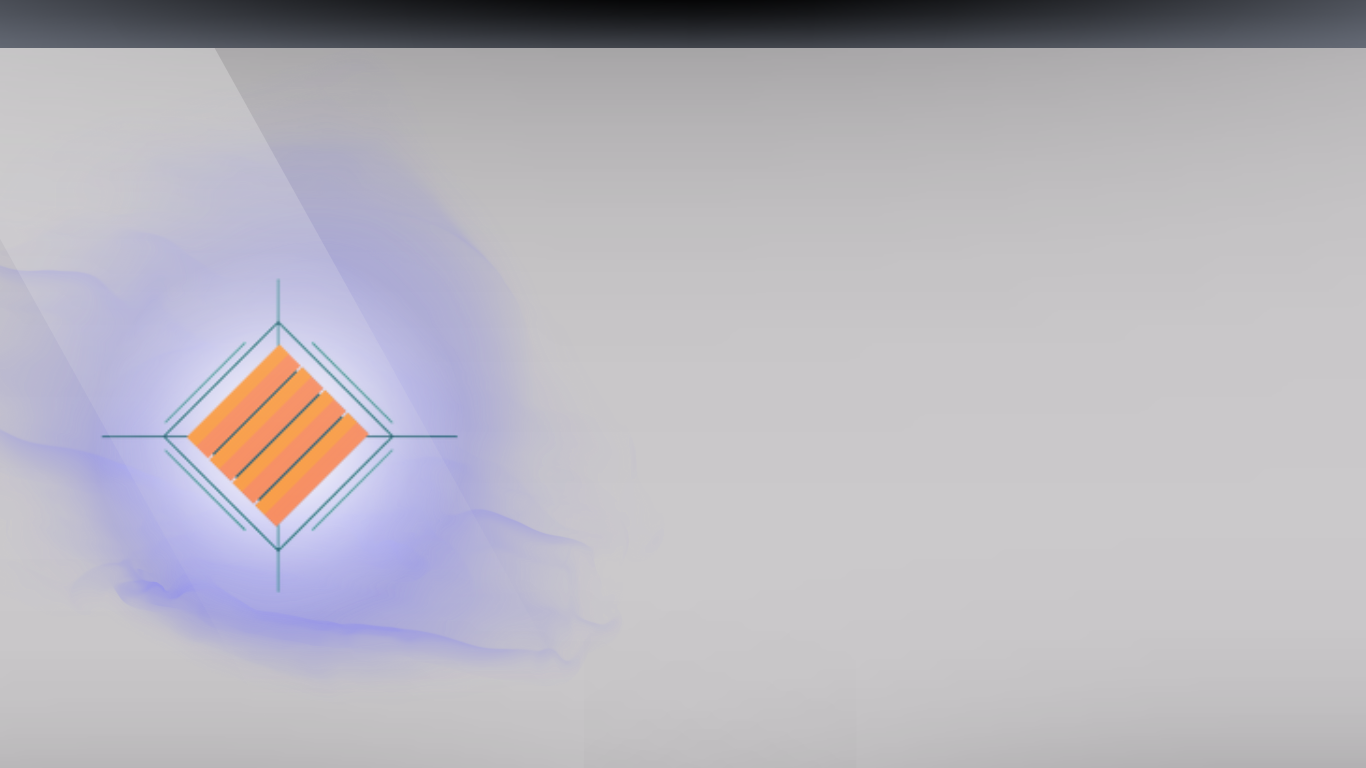
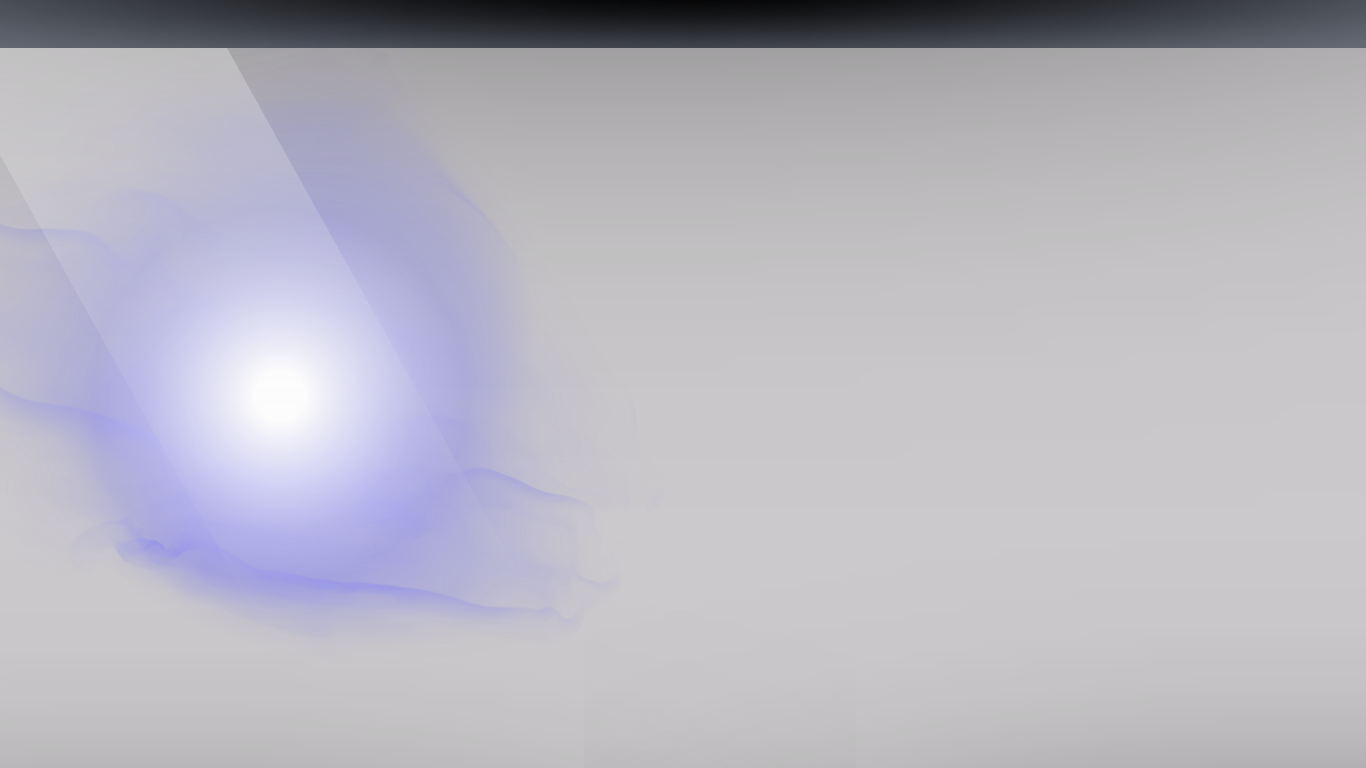
ultimos cambios
reemplazo de imagenes y que el logo gire mas lento

Changed region(s): [[0.0922, 0.375, 0.3382, 0.7188], [0.0922, 0.75, 0.3382, 0.8438], [0.0, 0.2812, 0.0307, 0.3125]]

diff --git a/index.html b/index.html
@@ -6,7 +6,7 @@
     <title>Laser Argento</title>
     <link
       rel="shortcut icon"
-      href="./assets/img/logo.svg"
+      href="./assets/img/logo.png"
       type="image/x-icon"
     />
     <link rel="stylesheet" href="./assets/styles/about.css" />
@@ -25,7 +25,7 @@
       <div class="head__container">
         <div class="logo__contain animate__animated animate__fadeInLeft">
           <div class="shadows"></div>
-          <img src="./assets/img/logo.svg" alt="logo" class="logaso" />
+          <img src="./assets/img/logo.png" alt="laser-argento-logo" class="logaso" />
           <p class="textlogo">Laser Argento</p>
         </div>
       </div>
@@ -42,6 +42,7 @@
           <a
             href="#about"
             class="button__home button__desktop animate__animated animate__zoomIn"
+            onclick="playVideo()"
             >Saber más</a
           >
         </div>
@@ -68,7 +69,7 @@
         <p class="text__about" data-aos="fade-right" data-aos-duration="1000" data-aos-delay="200">
           Somos una empresa conformada por ingenieros capacitados, dedicados a
           la reparación y mantenimiento de equipos de depilación láser y otro
-          tipo de equipos como Hifu, Criolipólisis, etc. En Láser Argento, nos
+          tipo de equipos como Vela Slim, ondas de choque, criolipólisis, etc. En Láser Argento, nos
           preocupamos por ofrecer servicios de calidad y soluciones técnicas,
           rápidas e innovadoras. Nos esforzamos por establecer relaciones
           sólidas y duraderas con nuestros clientes. Nos enorgullece ofrecer un
@@ -94,6 +95,9 @@
             confiable en el mantenimiento de equipos de depilación láser!
           </p>
         </div>
+<!--         <div class="videoYT" id="videoContainer">
+
+        </div> -->
         <iframe
           src="https://www.youtube.com/embed/iwdtidtt_PQ"
           title="Procesos de fabricación de diodos láser"
@@ -116,7 +120,7 @@
         <div class="contain__icon">
           <img
             src="./assets/img/envio-al-mundo-entero.png"
-            alt="imagen"
+            alt="laser-argento-image"
             class="services__icon"
           />
         </div>
@@ -126,7 +130,7 @@
         <div class="circle" data-aos="flip-up" data-aos-duration="500" data-aos-delay="300" data-aos-easing="linear">
           <img
             src="./assets/img/card1.png"
-            alt="imagen"
+            alt="laser-argento-image"
             class="services__image"
           />
           <div class="circle2"></div>
@@ -142,7 +146,7 @@
           <div class="circle" data-aos="flip-up" data-aos-duration="500" data-aos-delay="550" data-aos-easing="linear">
             <img
               src="./assets/img/card2.png"
-              alt="imagen"
+              alt="laser-argento-image"
               class="services__image"
             />
             <div class="circle2"></div>
@@ -157,7 +161,7 @@
           <div class="circle" data-aos="flip-up" data-aos-duration="500" data-aos-delay="750" data-aos-easing="linear">
             <img
               src="./assets/img/card3.png"
-              alt="imagen"
+              alt="laser-argento-image"
               class="services__image"
             />
             <div class="circle2"></div>
@@ -184,7 +188,7 @@
             +543513274104
             <img
               src="./assets/img/whatsapp.png"
-              alt="icon"
+              alt="laser-argento-icon"
               class="contact__icon"
             />
           </a>
@@ -198,7 +202,7 @@
             @Laser Argento
             <img
               src="./assets/img/nstagram.webp"
-              alt="icon"
+              alt="laser-argento-icon"
               class="contact__icon"
             />
           </a>
@@ -210,12 +214,12 @@
           </p>
           <img
             src="./assets/img/iconubi.png"
-            alt="icon"
+            alt="laser-argento-icon"
             class="contact__icon"
           />
         </div>
       </div>
-      <div>
+      <div class="map__container">
         <iframe
           src="https://www.google.com/maps/embed?pb=!1m18!1m12!1m3!1d1012.7432269949932!2d-64.23129439672374!3d-31.374191993295042!2m3!1f0!2f0!3f0!3m2!1i1024!2i768!4f13.1!3m3!1m2!1s0x9432992f513556b9%3A0xfe17b0ea399ca0eb!2sGdor.%20Roque%20Ferreyra%20%26%20Luis%20Jose%20de%20Tejeda%2C%20C%C3%B3rdoba!5e0!3m2!1ses-419!2sar!4v1690231644457!5m2!1ses-419!2sar"
           width="200"
@@ -230,6 +234,8 @@
           data-aos-delay="750"
         ></iframe>
       </div>
+      <img src="./assets/img/logo.png" alt="laser-argento-logo" class="contacto__logo contacto__logo__cel">
+      <a href="#home"><img src="./assets/img/logo.png" alt="laser-argento-logo" class="contacto__logo contacto__logo__desktop"></a>
     </div>
 
     <script src="https://unpkg.com/aos@2.3.1/dist/aos.js"></script>

diff --git a/assets/styles/contacto.css b/assets/styles/contacto.css
@@ -12,6 +12,7 @@
     align-items: flex-end;
     padding-right: 2rem;
     justify-content: space-between;
+    position: relative;
 }
 
 .contact__title{
@@ -27,6 +28,7 @@
     width: 90%;
     max-width: 700px;
     font-size: 1.2rem;
+    z-index: 1;
 }
 
 .contact__text__contain{
@@ -58,9 +60,52 @@
     width: 30px;
 }
 
+.map__container{
+    z-index: 1;
+}
 .map{
     border: 0;
     border-radius: 0.5rem;
+}
+
+.contacto__logo{
+    position: absolute;
+    width: 300px;
+    top: 210px;
+    left: -10px;
+    animation: rotate 72s infinite linear;
+}
+
+@keyframes rotate{
+    0% { transform: rotate(0deg);}
+    4.16% { transform: rotate(-15deg);}
+    8.32% { transform: rotate(-30deg);}
+    12.48% { transform: rotate(-45deg);}
+    16.64% { transform: rotate(-60deg);}
+    20.8% { transform: rotate(-75deg);}
+    25% { transform: rotate(-90deg);}
+    29.12% { transform: rotate(-105deg);}
+    33.28% { transform: rotate(-120deg);}
+    37.44% { transform: rotate(-135deg);}
+    41.6% { transform: rotate(-150deg);}
+    45.76% { transform: rotate(-165deg);}
+    50% { transform: rotate(-180deg);}
+    54.16% { transform: rotate(-195deg);}
+    58.32% { transform: rotate(-210deg);}
+    62.48% { transform: rotate(-225deg);}
+    66.64% { transform: rotate(-240deg);}
+    70.8% { transform: rotate(-255deg);}
+    75% { transform: rotate(-270deg);}
+    79.12% { transform: rotate(-285deg);}
+    83.28% { transform: rotate(-300deg);}
+    87.44% { transform: rotate(-315deg);}
+    91.6% { transform: rotate(-330deg);}
+    95.76% { transform: rotate(-345deg);}
+    100% { transform: rotate(-360deg);}
+}
+
+.contacto__logo__desktop{
+    display: none;
 }
 
 
@@ -71,6 +116,9 @@
     .map{
         width: 400px;
         height: 300px;
+    }
+    .contacto__logo{
+        left: -30px;
     }
 }
 
@@ -89,6 +137,20 @@
         padding-top: 7rem;
         background-position: initial;
     }
+    .contacto__logo{
+        width: 400px;
+        top: 400px;
+        left: 210px;
+    }
+}
+
+@media screen and (min-width: 1200px){
+    .contacto__logo__desktop{
+        display: block;
+    }
+    .contacto__logo__cel{
+        display: none;
+    }
 }
 
 @media screen and (min-width: 1401px){
@@ -100,5 +162,18 @@
     }
     .contact__icon{
         width: 60px;
+    }
+}
+
+@media screen and (min-width: 1700px){
+    .contacto__logo{
+        width: 460px;
+    }
+}
+@media screen and (min-width: 1800px){
+    .contacto__logo{
+        width: 500px;
+        top: 330px;
+        left: 140px;
     }
 }

diff --git a/index.js b/index.js
@@ -61,3 +61,10 @@ document.addEventListener("DOMContentLoaded", () => {
     });
   }
 });
+
+
+
+function playVideo() {
+  var videoContainer = document.getElementById('videoContainer');
+  videoContainer.innerHTML = '<iframe src="https://www.youtube.com/embed/iwdtidtt_PQ?autoplay=1" frameborder="0" allowfullscreen></iframe>';
+}

diff --git a/assets/styles/home.css b/assets/styles/home.css
@@ -139,6 +139,7 @@
 }
 .logaso{
     z-index: 1;
+    width: 150px;
 }
 .textlogo{
     font-size: 2rem;
